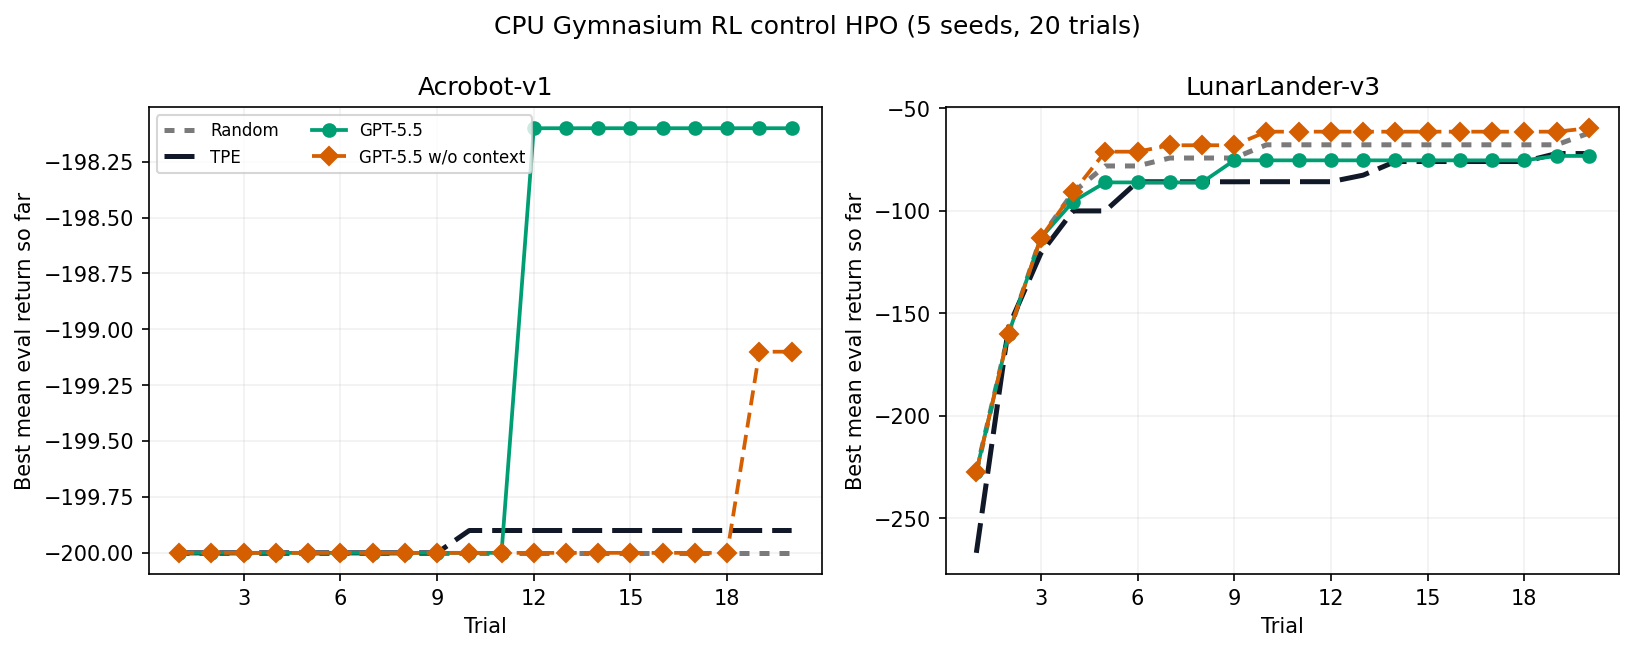
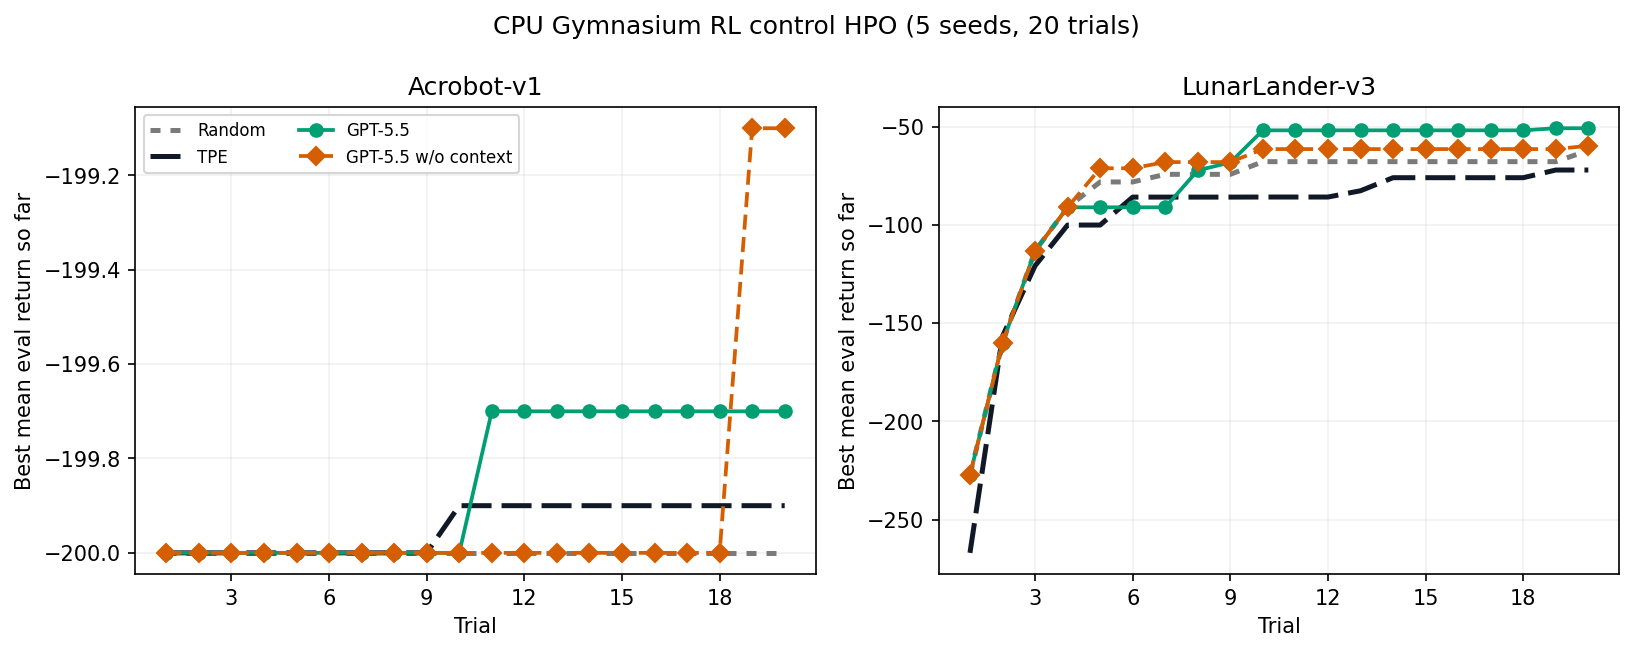
Publish winning RL context benchmark

diff --git a/docs/index.html b/docs/index.html
@@ -471,19 +471,20 @@ flip probability.</p>
 for Acrobot-v1 and LunarLander-v3. Each method runs 20 trials over five seeds
 (<code>0..4</code>); the objective is mean evaluation return, so higher is
 better. The runner parallelizes across seeds and within each HPO study via
-<code>--workers</code>. The GPT-5.5 arms use high reasoning effort and the
-last 5 trials of history.</p>
+<code>--workers</code>. The GPT-5.5 arms use high modeling effort and the last
+5 trials of history. The winning contextual arm disables the optional explicit-
+reasoning and qualitative-note fields.</p>
 <table>
 <tr><th>Method</th><th>Acrobot-v1 return ↑</th><th>LunarLander-v3 return ↑</th></tr>
 <tr><td>Random</td><td>-200.000</td><td>-62.139</td></tr>
 <tr><td>TPE</td><td>-199.900</td><td>-72.088</td></tr>
-<tr><td><strong>GPT-5.5 w/ context</strong></td><td><strong>-198.100</strong></td><td>-73.260</td></tr>
-<tr><td><strong>GPT-5.5 w/o context</strong></td><td>-199.100</td><td><strong>-59.751</strong></td></tr>
+<tr><td><strong>GPT-5.5 w/ context</strong></td><td><strong>-199.700</strong></td><td><strong>-50.825</strong></td></tr>
+<tr><td>GPT-5.5 w/o context</td><td>-199.100</td><td>-59.751</td></tr>
 </table>
 <p>With 20 trials and a five-trial prompt history, GPT-5.5 w/ context has the
-strongest Acrobot-v1 mean return. GPT-5.5 w/o context is strongest on
-LunarLander-v3; the enriched context does not improve that environment in this
-run. Treat this as a CPU HPO stress test rather than a universal ranking.</p>
+strongest mean return on both environments: 0.2 above TPE on Acrobot-v1 and
+11.3 above Random on LunarLander-v3. Treat this as a CPU HPO stress test rather
+than a universal ranking.</p>
 <p><img src="assets/lunarlander_policy.gif" alt="LunarLander rollout from a committed GPT-5.5 policy"></p>
 
 <h3>Branin and Ackley-5D</h3>

diff --git a/examples/rl_control.py b/examples/rl_control.py
@@ -113,8 +113,8 @@ def _common_metadata(method, seed):
         "agent_effort": AGENT_EFFORT if is_agent else None,
         "history": AGENT_HISTORY if is_agent else None,
         "parameter_context": PARAMETER_CONTEXT if is_agent and spec["use_context"] else None,
-        "explicit_reasoning": False if is_agent else None,
-        "qualitative_notes": False if is_agent else None,
+        "explicit_reasoning": method != MODEL_LABEL if is_agent else None,
+        "qualitative_notes": method != MODEL_LABEL if is_agent else None,
         "use_context": spec["use_context"] if is_agent else None,
         "context_policy": (
             "supplied task and parameter context"
@@ -372,8 +372,8 @@ def _make_sampler(method, seed, timeout, agent_cwd):
         agent_cwd=agent_cwd,
         fail_closed=True,
         history=AGENT_HISTORY,
-        explicit_reasoning=False,
-        qualitative_notes=False,
+        explicit_reasoning=method != MODEL_LABEL,
+        qualitative_notes=method != MODEL_LABEL,
     )
 
 

diff --git a/README.md b/README.md
@@ -221,19 +221,20 @@ This CPU-only Gymnasium benchmark tunes a discretized Q-learning controller for
 Acrobot-v1 and LunarLander-v3. Each method runs 20 trials over five seeds
 (`0..4`); the objective is mean evaluation return, so higher is better. The
 runner parallelizes across seeds and within each HPO study via `--workers`.
-The GPT-5.5 arms use high reasoning effort and the last 5 trials of history.
+The GPT-5.5 arms use high modeling effort and the last 5 trials of history. The
+winning contextual arm disables the optional explicit-reasoning and qualitative-note fields.
 
 | method              | Acrobot-v1 return ↑ | LunarLander-v3 return ↑ |
 | ------------------- | ------------------: | ----------------------: |
 | Random              |            -200.000 |                 -62.139 |
 | TPE                 |            -199.900 |                 -72.088 |
-| **GPT-5.5 w/ context** |     **-198.100** |                 -73.260 |
-| **GPT-5.5 w/o context** |         -199.100 |             **-59.751** |
+| **GPT-5.5 w/ context** |     **-199.700** |             **-50.825** |
+| GPT-5.5 w/o context   |            -199.100 |                 -59.751 |
 
 With 20 trials and a five-trial prompt history, GPT-5.5 w/ context has the
-strongest Acrobot-v1 mean return. GPT-5.5 w/o context is strongest on
-LunarLander-v3; the enriched context does not improve that environment in this
-run. Treat this as a CPU HPO stress test rather than a universal ranking.
+strongest mean return on both environments: 0.2 above TPE on Acrobot-v1 and
+11.3 above Random on LunarLander-v3. Treat this as a CPU HPO stress test rather
+than a universal ranking.
 
 ![LunarLander rollout from a committed GPT-5.5 policy](docs/assets/lunarlander_policy.gif)
 

diff --git a/benchmarks/README.md b/benchmarks/README.md
@@ -19,9 +19,9 @@ runs provide the explicit with-context versus no-context comparison.
 The RL-control benchmark is CPU-only and uses Gymnasium Acrobot-v1 and
 LunarLander-v3 with a discretized Q-learning controller. It runs Random, TPE,
 GPT-5.5 with context, and GPT-5.5 without context for 20 trials across seeds
-`0..4`. The GPT-5.5 arms use high reasoning effort and the last 5 trials of
-history. It is a lightweight HPO stress test; contextual GPT-5.5 is strongest
-on Acrobot-v1 while the no-context control is strongest on LunarLander-v3.
+`0..4`. The GPT-5.5 arms use high modeling effort and the last 5 trials of
+history. The winning contextual arm disables explicit reasoning and qualitative
+notes. It is strongest on both environment means in the committed run.
 The credit-default benchmark is CPU-only and uses UCI dataset 350, Default of
 Credit Card Clients (CC BY 4.0, DOI `10.24432/C55S3H`). The official archive
 SHA-256, workbook schema, 60/20/20 stratified split, split seed, search space,
